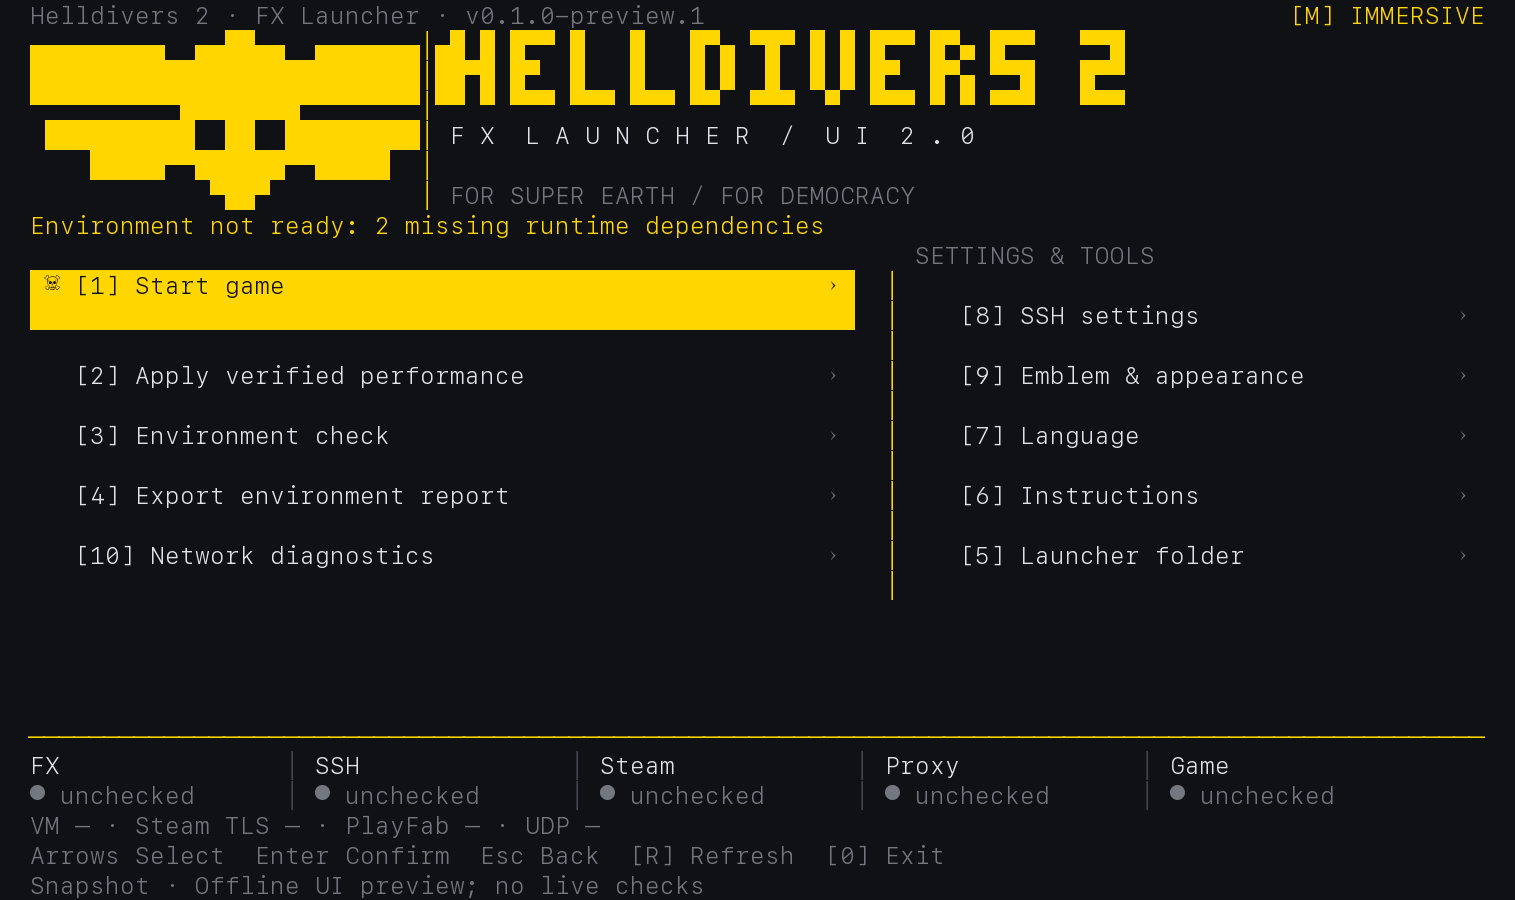
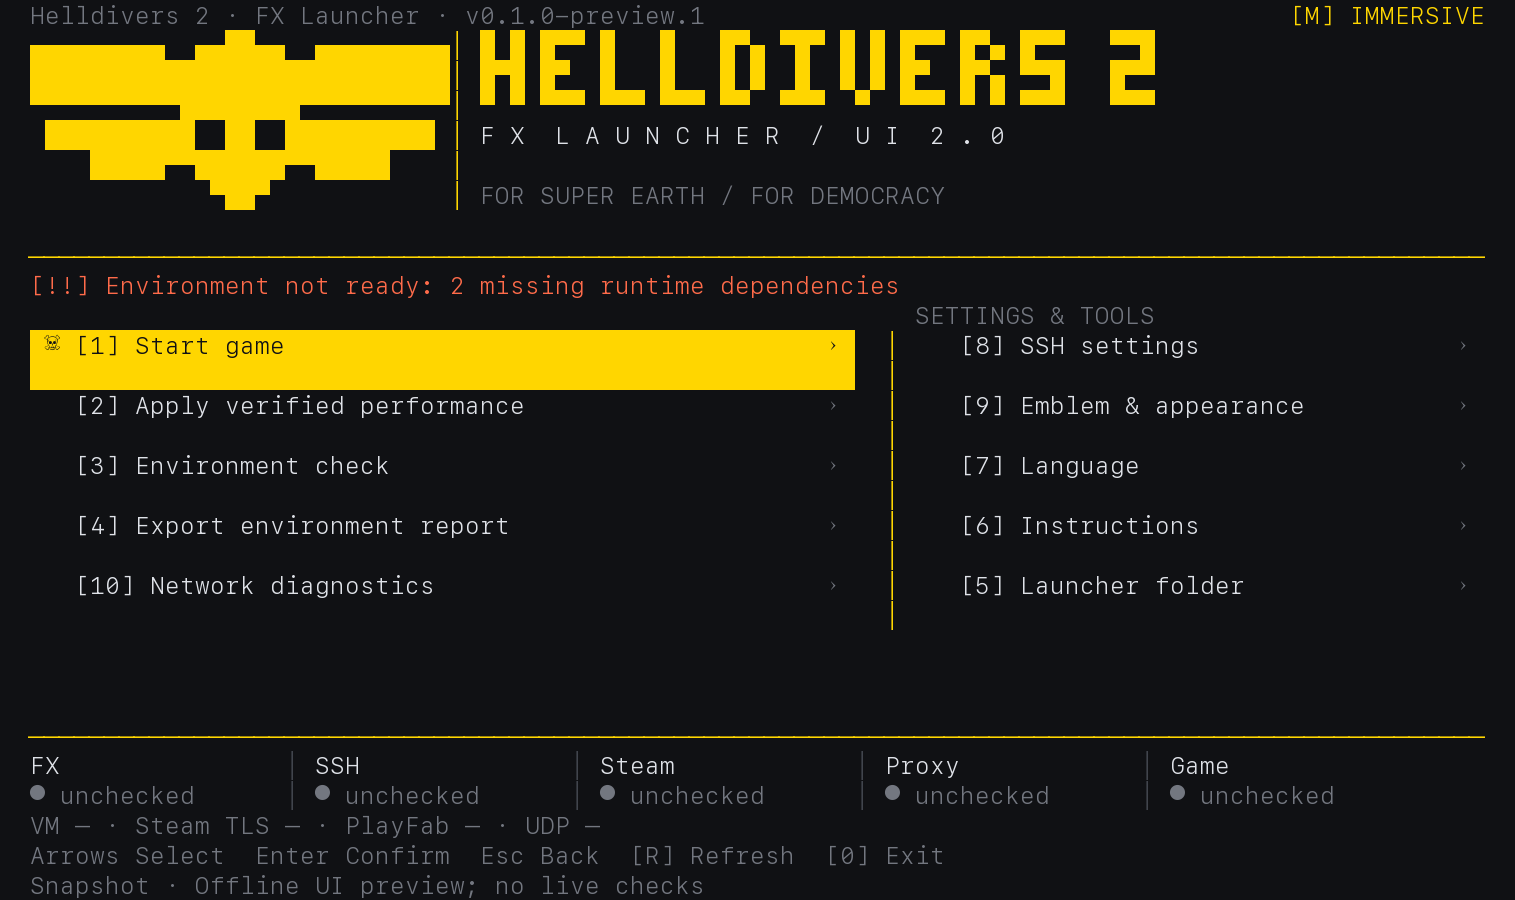
Improve environment status and bilingual README onboarding

Changed region(s): [[0.0, 0.0311, 0.8686, 0.6844], [0.2792, 0.5289, 0.3413, 0.5911], [0.6205, 0.6222, 0.6515, 0.6533]]

diff --git a/launcher-20261026/ui2.py b/launcher-20261026/ui2.py
@@ -23,9 +23,11 @@ _version_spec.loader.exec_module(launcher_version)
 
 COLORS = {
     'background': '#101114', 'yellow': '#FFD600', 'muted': '#737780',
-    'green': '#55D68A', 'red': '#FF5757', 'text': '#DFE2E8', 'line': '#41454D',
+    'green': '#55D68A', 'red': '#FF5757', 'warning': '#FF6B4A',
+    'text': '#DFE2E8', 'line': '#41454D',
 }
-COLOR_INDEX = {'background':233,'yellow':220,'muted':243,'green':78,'red':203,'text':253,'line':238}
+COLOR_INDEX = {'background':233,'yellow':220,'muted':243,'green':78,'red':203,'warning':203,'text':253,'line':238}
+ANSI_FG = {'background':30,'yellow':93,'muted':90,'green':92,'red':91,'warning':91,'text':37,'line':90}
 ASSETS = Path(__file__).resolve().parent/'assets'
 ORDER = ['1','2','3','4','10','8','9','7','6','5','0']
 LEFT = ['1','2','3','4','10']
@@ -94,7 +96,7 @@ class Frame:
     def plain(self):
         return '\n'.join(''.join(cell[0] for cell in line).rstrip() for line in self.cells)
 
-    def ansi(self,colors=True,truecolor=True):
+    def ansi(self,colors=True,truecolor=True,colors256=True):
         output=['\033[?7l\033[H']
         for y,line in enumerate(self.cells):
             output.append('\033['+str(y+1)+';1H')
@@ -107,7 +109,8 @@ class Frame:
                     if truecolor:
                         r,g,b=rgb(fg);br,bg_,bb=rgb(bg)
                         output.append(prefix+'38;2;'+str(r)+';'+str(g)+';'+str(b)+';48;2;'+str(br)+';'+str(bg_)+';'+str(bb)+'m')
-                    else:output.append(prefix+'38;5;'+str(COLOR_INDEX[fg])+';48;5;'+str(COLOR_INDEX[bg])+'m')
+                    elif colors256:output.append(prefix+'38;5;'+str(COLOR_INDEX[fg])+';48;5;'+str(COLOR_INDEX[bg])+'m')
+                    else:output.append(prefix+str(ANSI_FG[fg])+';'+str(ANSI_FG[bg]+10)+'m')
                 output.append(char)
                 previous=style
         output.append('\033[0m')
@@ -197,28 +200,36 @@ def build_home(columns,rows,language,appearance,labels,status,selected='1'):
     else:
         art=emblem(appearance.get('emblem','current'),max(20,int(c*.28)),7)
         for i,line in enumerate(art):f.put(1+i,margin,line,'yellow')
-        title_x=max(29,int(c*.30))
+        title_x=max(29,int(c*.30),margin+max(map(len,art),default=0)+2)
         for i,line in enumerate(wordmark(c-title_x-margin-4)):f.put(1+i,title_x,line,'yellow',bold=True)
         for row in range(1,7):f.put(row,title_x-2,'│','yellow')
         f.put(4,title_x,'F X  L A U N C H E R  /  U I  2 . 0','text')
         f.put(6,title_x,'FOR SUPER EARTH / FOR DEMOCRACY','muted')
-        f.rule(7,margin,c-margin)
+        # The emblem occupies rows 1–7; keep its final row intact.
+        f.rule(8,margin,c-margin)
         split=int(c*.59)
-        left_rows=[9,12,14,16,18];right_rows=[10,12,14,16,18]
+        last_menu=min(19,r-7)
+        left_rows=[11+(i*(last_menu-11)+2)//4 for i in range(5)]
+        right_rows=list(left_rows)
+    f.environment_row=3 if compact and r>=16 else (1 if compact else 9)
     if status.get('runtime_limited'):
         missing=status.get('runtime_missing_count',0)
         attention=status.get('runtime_attention_count',0)
         notice=T('runtime.missing',count=missing) if missing else T('runtime.attention',count=attention)
         if missing and attention:notice+=' · '+T('runtime.attention_short',count=attention)
-        row=3 if compact and r>=16 else (1 if compact else 7)
-        f.fill(row,margin,c-margin*2)
-        f.put(row,margin,notice,'yellow',limit=c-margin*2)
+        notice='[!!] '+notice;role='warning'
+    elif status.get('runtime_limited') is False:
+        notice='[OK] '+T('runtime.local_ready');role='green'
+    else:
+        notice='[--] '+T('runtime.unchecked');role='muted'
+    f.fill(f.environment_row,margin,c-margin*2)
+    f.put(f.environment_row,margin,notice,role,limit=c-margin*2)
     status_y=r-6
     if split is not None:
         left_x=margin;left_w=split-margin-2;right_x=split+2;right_w=c-right_x-margin
         if not compact:
-            f.put(8,right_x,T('ui.tools'),'muted',limit=right_w)
-            for row in range(9,min(20,status_y)):f.put(row,split,'│','yellow')
+            f.put(10,right_x,T('ui.tools'),'muted',limit=right_w)
+            for row in range(11,min(21,status_y)):f.put(row,split,'│','yellow')
         for keys,positions,x,width in [(LEFT,left_rows,left_x,left_w),(RIGHT,right_rows,right_x,right_w)]:
             for key,row in zip(keys,positions):
                 f.positions[key]=(row,x,width)
@@ -436,7 +447,7 @@ def choose_list(title,options,default='1',language='en'):
     def draw():
         size=terminal_size((80,24))
         frame=build_list(size.columns,size.lines,title,options,index,pending,language)
-        sys.stdout.write(frame.ansi(colors,truecolor));sys.stdout.flush()
+        sys.stdout.write(frame.ansi(colors,truecolor,'256color' in os.environ.get('TERM','').lower()));sys.stdout.flush()
         return frame
     try:
         tty.setcbreak(fd,termios.TCSANOW)
@@ -511,7 +522,7 @@ def choose_home(language,appearance,labels,status,toggle_layout,refresh_status=N
         if notice:
             frame.fill(frame.rows-1,0,frame.columns)
             frame.put(frame.rows-1,2,notice,'yellow',limit=frame.columns-4)
-        sys.stdout.write(frame.ansi(colors,truecolor));sys.stdout.flush()
+        sys.stdout.write(frame.ansi(colors,truecolor,'256color' in os.environ.get('TERM','').lower()));sys.stdout.flush()
         return frame
     try:
         tty.setcbreak(fd,termios.TCSANOW)

diff --git a/launcher-20261026/menu.py b/launcher-20261026/menu.py
@@ -96,7 +96,7 @@ def dashboard_data():
     def role(value):
         if value == unknown:return 'muted'
         return 'green' if value in [tr('运行中','running'),tr('端口就绪','port open'),tr('验证通过','verified'),tr('已登录','signed in')] else 'red'
-    return dict(zip(['fx','ssh','steam','proxy','game'], [(value,role(value)) for value in [fx,ssh,steam,proxy,game]]), note=age)
+    return dict(zip(['fx','ssh','steam','proxy','game'], [(value,role(value)) for value in [fx,ssh,steam,proxy,game]]), note=age,runtime_limited=False)
 
 
 def runtime_dependencies():
@@ -113,7 +113,10 @@ def limited_dashboard(report):
 def refresh_dashboard(language):
     report=runtime_dependencies()
     if not report['ready']:return limited_dashboard(report)
-    return status_monitor.snapshot(prefs,helper,language)
+    data=status_monitor.snapshot(prefs,helper,language)
+    # Presentation flag only: use the existing report['ready'] decision above.
+    data['runtime_limited']=False
+    return data
 
 
 def show_runtime_dependencies(report):

diff --git a/docs/AI_INSTALL.md b/docs/AI_INSTALL.md
@@ -8,6 +8,24 @@
 
 当前是源码技术预览。可以自动检查、经用户确认后通过已有 Homebrew 安装 Python/Node.js；**不能据此完成全部游戏运行环境安装**。
 
+### 复制给 AI 助手的完整提示词
+
+将下面整段复制给 ChatGPT、Codex、Claude Code 等助手。请使用你自己的项目目录；无需向助手提供密码、令牌或代理订阅。
+
+```text
+请协助我在 Apple Silicon Mac 上准备 HELLDIVERS 2 FX Launcher 源码技术预览。
+仓库：https://github.com/LSJOP/helldivers2-fx-launcher
+
+1. 先确认你是否能访问我的本地文件和终端。不能访问时，请逐步指导我执行，并让我返回脱敏结果；不要声称已经检查或安装。确认我解压或克隆的项目文件夹，不要假定下载目录。
+2. 在实际项目中阅读 README.md、docs/AI_INSTALL.md、tools/install_dependencies.sh、tools/runtime_paths.sh、tools/check_node.cjs 和依赖检查文件。以当前文件为准，遇到缺失或不一致先报告，不猜测命令或参数。
+3. 先做只读检查：uname -s、uname -m，以及 /bin/bash tools/install_dependencies.sh --check。确认原生 Darwin/arm64、Python 3.9+、Node.js 22.0.0+ 及原生 fetch/WebSocket 功能；已满足要求的组件直接跳过。
+4. 安装任何软件或修改系统前，先说明准确操作、包名、联网和磁盘影响，并等待我确认。确认后优先使用现有原生 Homebrew，通过 /bin/bash tools/install_dependencies.sh 安装缺失的基础依赖。没有 Homebrew 时让我选择 Homebrew 官方说明或 Python/Node 官方安装包，不自动安装 Homebrew。不要覆盖系统 Python、强制链接、编辑 shell profile 或批量升级软件；密码和系统授权由我自行操作。
+5. 安装后重新执行 /bin/bash tools/install_dependencies.sh --check，再执行 /bin/zsh Start.command --check-local。报告实际版本、功能结果和 Python 路径。后者返回 3 表示游戏组件不完整但可进入受限模式，返回 2 表示启动器基础条件有问题；不要把缺失或未验证说成成功。
+6. 如需配置语言、外观或 SSH，请通过现有菜单 7、9、8 引导我操作，写入个人设置或保存密码前逐项确认。真实 SSH、FX 环境配置、Steam 和游戏启动需要另外获得我的明确授权。
+7. 当前没有完整游戏环境安装包。不要猜测 FX、FEX、Proton 或 gvproxy 的下载地址和兼容版本，不安装来源不明的二进制，不关闭 SIP、Gatekeeper 或其他 macOS 安全保护，不改 DNS、IPv6、防火墙或代理节点。
+8. 最后汇报：安装了什么、跳过了什么、验证了什么、仍缺少什么，以及我下一步可以做什么。明确区分“基础依赖就绪”“可打开受限模式菜单”和“游戏运行或联机已验证”。
+```
+
 ### 可执行范围与确认边界
 
 | 操作 | 是否可直接执行 |
@@ -99,6 +117,24 @@ uname -m
 ## English
 
 This guide works with assistants that can inspect local files or guide Terminal use. Without local access, provide instructions and request redacted results; never claim execution. This source preview can inspect Python/Node and install missing tools through existing Homebrew **after user consent**. It cannot complete the entire game environment.
+
+### Copy the complete prompt
+
+Copy the entire block into ChatGPT, Codex, Claude Code or another assistant. Use your own project folder; do not share passwords, tokens or proxy subscriptions.
+
+```text
+Help me prepare the HELLDIVERS 2 FX Launcher source technical preview on an Apple Silicon Mac.
+Repository: https://github.com/LSJOP/helldivers2-fx-launcher
+
+1. Confirm whether you can access my local files and Terminal. Without access, guide me one step at a time and request redacted results; never claim you ran checks or installations. Confirm my extracted or cloned project folder instead of assuming its location.
+2. Read README.md, docs/AI_INSTALL.md, tools/install_dependencies.sh, tools/runtime_paths.sh, tools/check_node.cjs and the actual dependency-check files. Follow the current repository; report missing or inconsistent files instead of inventing commands or flags.
+3. Start with read-only checks: uname -s, uname -m, and /bin/bash tools/install_dependencies.sh --check. Check native Darwin/arm64, Python 3.9+, and Node.js 22.0.0+ with native fetch/WebSocket. Skip tools that already meet the requirements.
+4. Before software installation or system changes, explain the exact operations, packages and network/disk impact, then wait for my approval. After approval, prefer existing native Homebrew through /bin/bash tools/install_dependencies.sh to install missing basic dependencies. If Homebrew is absent, let me choose official Homebrew instructions or Python/Node installers; do not install Homebrew automatically. Do not replace system Python, force links, edit shell profiles or upgrade all packages. Let me handle passwords and OS authorization.
+5. Rerun /bin/bash tools/install_dependencies.sh --check, followed by /bin/zsh Start.command --check-local. Report actual versions, feature checks and the selected Python path. The latter returns 3 for incomplete game components with limited mode available, or 2 for broken launcher basics. Do not report missing or unverified items as successful.
+6. Guide any language, appearance or SSH setup through existing menus 7, 9 and 8. Obtain approval for each personal-setting write or password-storage action. Real SSH, FX environment configuration, Steam and game startup require separate explicit authorization.
+7. A complete game environment installer is not available. Do not guess FX, FEX, Proton or gvproxy download URLs or compatible versions, install unknown binaries, disable SIP, Gatekeeper or other macOS protections, or change DNS, IPv6, firewall or proxy nodes.
+8. Summarize what was installed, skipped and verified, what remains missing, and my next steps. Distinguish basic dependencies being ready, limited-mode menus being available, and verified gameplay or multiplayer.
+```
 
 ### Permissions
 

diff --git a/README.md b/README.md
@@ -2,14 +2,38 @@
 
 [简体中文](#简体中文) · [English](#english)
 
+**🤖 AI 辅助安装 / Install with AI** · [中文指南与完整提示词](docs/AI_INSTALL.md#简体中文) · [English guide & copyable prompt](docs/AI_INSTALL.md#english)
+
 <!-- launcher-version:start -->
 **当前源码版本 / Current source version: `0.1.0-preview.1`** · [VERSION](VERSION) · [CHANGELOG](CHANGELOG.md)
 源码技术预览；尚无完整安装包，版本号不代表已创建 GitHub Release。 / Source technical preview; no complete installer or GitHub Release is implied.
 <!-- launcher-version:end -->
 
-![Launcher UI preview with all runtime states unchecked / 启动器界面预览，所有运行状态均未检查](docs/images/launcher-en.png)
+<table>
+  <tr>
+    <th width="50%">简体中文 UI</th>
+    <th width="50%">English UI</th>
+  </tr>
+  <tr>
+    <td><a href="docs/images/launcher-zh-CN.png"><img src="docs/images/launcher-zh-CN.png" alt="简体中文启动器 UI：受限模式离线预览，运行状态均未检查" width="100%"></a></td>
+    <td><a href="docs/images/launcher-en.png"><img src="docs/images/launcher-en.png" alt="English launcher UI: offline limited-mode preview, all runtime states unchecked" width="100%"></a></td>
+  </tr>
+</table>
 
-*当前 UI 代码的离线渲染预览，不是游戏运行或联机成功截图。 / Offline preview rendered from the current UI code; no game, EAC or multiplayer success is implied.* [中文界面 / Chinese UI](docs/images/launcher-zh-CN.png) · [截图来源 / Image provenance](docs/images/README.md)
+<details>
+<summary>📱 手机或小屏幕：展开大图 / Small screen: expand full-width previews</summary>
+
+**简体中文 UI**
+
+[![简体中文启动器 UI，点击查看原图](docs/images/launcher-zh-CN.png)](docs/images/launcher-zh-CN.png)
+
+**English UI**
+
+[![English launcher UI — click for original size](docs/images/launcher-en.png)](docs/images/launcher-en.png)
+
+</details>
+
+*可点击图片查看原图。两图均为当前 UI 代码的离线渲染预览，不是游戏运行或联机成功截图。 / Click either image for its original size. Both are offline previews rendered from the current UI code; no game, EAC or multiplayer success is implied.* [截图来源 / Image provenance](docs/images/README.md)
 
 **源码技术预览 / Source Technical Preview**
 
@@ -72,13 +96,9 @@ cd "$HOME/Downloads/helldivers2-fx-launcher-main" && /bin/bash tools/install_dep
 
 ### 🤖 使用 AI 助手安装
 
-可把下面的内容复制给有本地工具权限的 ChatGPT、Codex 或 Claude Code；没有本地访问权限时，让它指导你执行。
+打开[中文 AI 安装指南与完整提示词](docs/AI_INSTALL.md#简体中文)，将提示词复制给 ChatGPT、Codex 或 Claude Code。没有本地工具权限的助手可以逐步指导你操作；安装或修改设置前仍需你确认。当前仅可辅助准备基础依赖，完整游戏环境尚未提供。
 
-```text
-请协助安装 helldivers2-fx-launcher。先让我确认解压目录，读取 README.md 和 docs/AI_INSTALL.md，按仓库实际脚本做只读检查。仅处理 Python 3.9+ 与满足版本和功能要求的 Node.js，已满足就跳过。任何软件安装、系统修改或个人设置写入前，先说明准确操作并征得我确认。没有 Homebrew 不要自动安装，给我官方方式选择。不要猜测游戏组件下载地址，不关闭 SIP/Gatekeeper，不自动连接 SSH 或启动游戏。验证后报告版本、路径及仍缺少的事项，不能把基础依赖就绪说成游戏安装成功。
-```
-
-[AI 安装详细指南](docs/AI_INSTALL.md) · [统一版本与更新记录](docs/VERSIONING.md)
+[统一版本与更新记录](docs/VERSIONING.md)
 
 ### 第 2 步：双击启动入口
 
@@ -181,13 +201,9 @@ The installer and shortcut share Python selection rules. Results show versions, 
 
 ### 🤖 Install with AI
 
-Copy this prompt into an assistant with local tool access, or ask an assistant without it to guide your actions:
+Open the [English AI installation guide and complete prompt](docs/AI_INSTALL.md#english), then copy the prompt into ChatGPT, Codex or Claude Code. Assistants without local tools can guide you step by step. Installation and setting changes still need your approval; the complete game environment is not available yet.
 
-```text
-Help me set up helldivers2-fx-launcher. Confirm the extracted folder, read README.md and docs/AI_INSTALL.md, and use the actual repository scripts for read-only checks. Handle only Python 3.9+ and Node.js meeting the project version and feature requirements; skip suitable tools. Explain and obtain my approval before software installation, system changes or personal-setting writes. If Homebrew is absent, offer official choices rather than installing it automatically. Do not guess game-component URLs, disable SIP/Gatekeeper, connect SSH or start the game automatically. Verify and report versions, paths and remaining gaps; basic dependencies being ready does not mean the game is installed.
-```
-
-[Detailed AI installation guide](docs/AI_INSTALL.md#english) · [Versioning and changelog](docs/VERSIONING.md)
+[Versioning and changelog](docs/VERSIONING.md)
 
 ### Step 2: Open the shortcut
 
